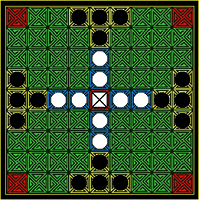
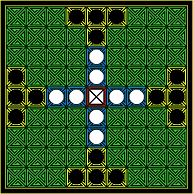
Kings Adiyukh Checkers (rules changed)

diff --git a/public/dagaz/scripts/king-adiuh-checkers-black.js b/public/dagaz/scripts/king-adiuh-checkers-black.js
@@ -29,7 +29,7 @@ ZRF = {
 Dagaz.Model.BuildDesign = function(design) {
     design.checkVersion("z2j", "2");
     design.checkVersion("animate-captures", "false");
-    design.checkVersion("smart-moves", "false");
+    design.checkVersion("smart-moves", "from");
     design.checkVersion("show-hints", "false");
     design.checkVersion("show-blink", "false");
     design.checkVersion("shared-pieces", "true");
@@ -280,6 +280,9 @@ Dagaz.Model.BuildDesign = function(design) {
     design.addCommand(5, ZRF.FUNCTION,	28);	// end
 
     design.addCommand(6, ZRF.FUNCTION,	24);	// from
+    design.addCommand(6, ZRF.IN_ZONE,	0);	// promotion
+    design.addCommand(6, ZRF.FUNCTION,	0);	// not
+    design.addCommand(6, ZRF.FUNCTION,	20);	// verify
     design.addCommand(6, ZRF.FUNCTION,	3);	// friend?
     design.addCommand(6, ZRF.FUNCTION,	20);	// verify
     design.addCommand(6, ZRF.PARAM,	0);	// $1

diff --git a/public/dagaz/scripts/king-adiuh-checkers.js b/public/dagaz/scripts/king-adiuh-checkers.js
@@ -29,7 +29,7 @@ ZRF = {
 Dagaz.Model.BuildDesign = function(design) {
     design.checkVersion("z2j", "2");
     design.checkVersion("animate-captures", "false");
-    design.checkVersion("smart-moves", "false");
+    design.checkVersion("smart-moves", "from");
     design.checkVersion("show-hints", "false");
     design.checkVersion("show-blink", "false");
     design.checkVersion("shared-pieces", "true");
@@ -280,6 +280,9 @@ Dagaz.Model.BuildDesign = function(design) {
     design.addCommand(5, ZRF.FUNCTION,	28);	// end
 
     design.addCommand(6, ZRF.FUNCTION,	24);	// from
+    design.addCommand(6, ZRF.IN_ZONE,	0);	// promotion
+    design.addCommand(6, ZRF.FUNCTION,	0);	// not
+    design.addCommand(6, ZRF.FUNCTION,	20);	// verify
     design.addCommand(6, ZRF.FUNCTION,	3);	// friend?
     design.addCommand(6, ZRF.FUNCTION,	20);	// verify
     design.addCommand(6, ZRF.PARAM,	0);	// $1

diff --git a/public/dagaz/scripts/king-adiuh-goal.js b/public/dagaz/scripts/king-adiuh-goal.js
@@ -51,7 +51,7 @@ var checkGoals = Dagaz.Model.checkGoals;
 
 Dagaz.Model.checkGoals = function(design, board, player) {
   var w = 0; var b = 0; var f = true;
-  var pos = findPiece(design, board, player, 4);
+/*var pos = findPiece(design, board, player, 4);
   if (pos !== null) {
       _.each(design.allDirections(), function(dir) {
           var p = design.navigate(player, pos, dir);
@@ -61,7 +61,7 @@ Dagaz.Model.checkGoals = function(design, board, player) {
           if (piece.type != 4) return;
           f = false;
       });
-  }
+  }*/
   var g = false;
   board.generate(design);
   _.each(board.moves, function(move) {
